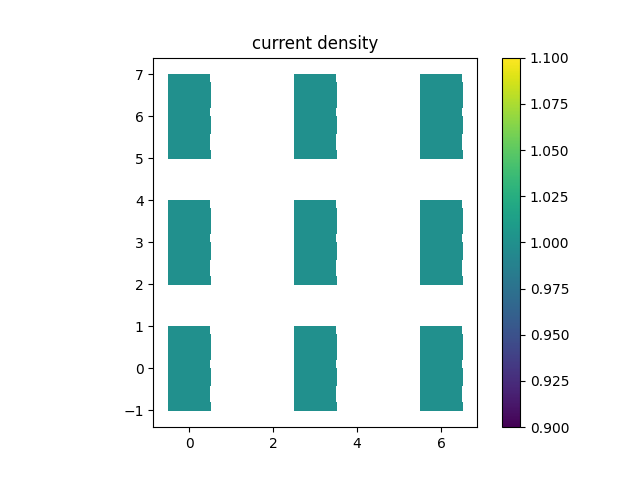
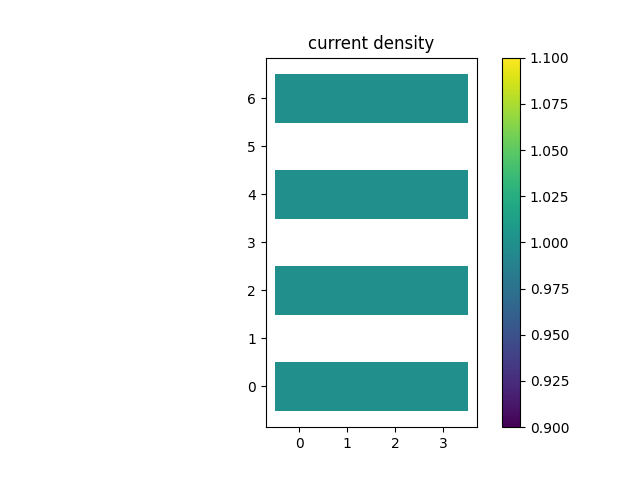
v1.1

diff --git a/plotter/_plotter.py b/plotter/_plotter.py
@@ -49,13 +49,44 @@ class GraphStruct(Graph):
         colors = self.ax.tripcolor(x, y, triangles, densities)
         self.fig.colorbar(colors)
         self._options(filepath, filename, shown)
-        
-    def plotPoly(self, points, filename = "poly.png", filepath = "./results/", xlabel = 'x', ylabel = 'y', shown = True):
-        x = [each[0] for each in points]
-        y = [each[1] for each in points]
-        self.ax.set_title("poly", loc='center')        
-        self.ax.plot(x, y)
+
+
+    
+    def plotPoly(self, structure, filename="poly.png", filepath="./results/", xlabel='x', ylabel='y', shown=True):
+        """繪製多個多邊形的外部邊框。"""
+        # 使用集合來保持唯一性，並標記每個邊界的邊次數
+        edge_count = {}
+        for triangle in structure.triangles:
+            edges = [
+                (min(triangle[0], triangle[1]), max(triangle[0], triangle[1])),
+                (min(triangle[1], triangle[2]), max(triangle[1], triangle[2])),
+                (min(triangle[0], triangle[2]), max(triangle[0], triangle[2]))
+            ]
+            for edge in edges:
+                if edge in edge_count:
+                    edge_count[edge] += 1
+                else:
+                    edge_count[edge] = 1
+
+        # 只繪製外部邊框的邊，即出現次數為 1 的邊
+        for edge, count in edge_count.items():
+            if count == 1:
+                x = [structure.points[edge[0]][0], structure.points[edge[1]][0]]
+                y = [structure.points[edge[0]][1], structure.points[edge[1]][1]]
+                self.ax.plot(x, y, 'b-')  # 'b-' 表示藍色實線
+
+        # print("只繪製多邊形的外部邊框")
+        self.ax.set_title("poly", loc='center')
         self._options(filepath, filename, shown)
+
+ 
+        
+    # def plotPoly(self, points, filename = "poly.png", filepath = "./results/", xlabel = 'x', ylabel = 'y', shown = True):
+    #     x = [each[0] for each in points]
+    #     y = [each[1] for each in points]
+    #     self.ax.set_title("poly", loc='center')        
+    #     self.ax.plot(x, y)
+    #     self._options(filepath, filename, shown)
 
     def plot2Dmesh(self, points, triangles, centers = None, filename =  "mesh.png", filepath = "./results/", keepout_ratio = 1.02, xlabel = 'x', ylabel = 'y', shown = True):
         ## -- Prepare data and plot
@@ -80,20 +111,44 @@ class GraphStruct(Graph):
             self.ax.text(each[0], each[1], str(k), fontsize = 8)
        
     
+
+
+
+
 def plotAll(structure, densities):
     name = structure.name
-    v = structure.vertices
     p = structure.points
     t = structure.triangles
     c = structure.center
 
     polygon = GraphStruct()
-    polygon.plotPoly(v, filename = name + "_" + "poly.png" )
-    
+    polygon.plotPoly(structure, filename=name + "_" + "poly.png")
+
     mesh = GraphStruct()
-    mesh.plot2Dmesh(p, t, c, filename = name + "_" + "mesh.png" )
+    mesh.plot2Dmesh(p, t, c, filename=name + "_" + "mesh.png")
 
     density = GraphStruct()
-    density.plotDensity(p, t, densities, filename = name + "_" + "densities.png" )
+    density.plotDensity(p, t, densities, filename=name + "_" + "densities.png")
+
+
+
+
+
+
+# def plotAll(structure, densities):
+#     name = structure.name
+#     v = structure.vertices
+#     p = structure.points
+#     t = structure.triangles
+#     c = structure.center
+
+#     polygon = GraphStruct()
+#     polygon.plotPoly(v, filename = name + "_" + "poly.png" )
+    
+#     mesh = GraphStruct()
+#     mesh.plot2Dmesh(p, t, c, filename = name + "_" + "mesh.png" )
+
+#     density = GraphStruct()
+#     density.plotDensity(p, t, densities, filename = name + "_" + "densities.png" )
     
     

diff --git a/mesh/_mesh.py b/mesh/_mesh.py
@@ -82,28 +82,53 @@ class Mesh(object):
             raise ValueError("僅支援對 'plate' 幾何形狀的網格進行複製。")
 
         num_x_copies = int(dlist[4])
-        x_spacing = int(dlist[5])
+        x_spacing = float(dlist[5])
         num_y_copies = int(dlist[6])
-        y_spacing = int(dlist[7])
+        y_spacing = float(dlist[7])
 
         replicated_triangles = []
-        replicated_points = []
+        replicated_points = list(self.points)  # 首先保留初始的點
+        num_original_points = len(self.points)
+
+        # 初始天線的點和三角形數量
+        # print(f"初始點數量: {num_original_points}")
+        # print(f"初始三角形數量: {len(self.triangles)}")
 
         for i in range(num_x_copies):
             for j in range(num_y_copies):
+                if i == 0 and j == 0:
+                    # 跳過初始的第一組
+                    continue
+
                 # 計算此次複製的偏移量
                 x_offset = i * x_spacing
                 y_offset = j * y_spacing
 
-                # 使用計算出的偏移量複製點和三角形
-                for v in self.triangles:
-                    replicated_triangles.append([v_i + len(replicated_points) for v_i in v])
-                    replicated_points.extend([(x + x_offset, y + y_offset) for x, y in self.points])
+                # 複製點並添加到點列表中
+                replicated_points.extend([(x + x_offset, y + y_offset) for x, y in self.points])
 
-        # 使用複製後的點和三角形更新 Mesh 物件的屬性
-        self.triangles = replicated_triangles
+                # 複製三角形，並更新其頂點索引
+                num_points = num_original_points * (i + j * num_x_copies)
+                for triangle in self.triangles:
+                    replicated_triangle = [v + num_points for v in triangle]
+                    replicated_triangles.append(replicated_triangle)
+
+                # 當前複製的位移和結果
+                # print(f"已在偏移 ({x_offset}, {y_offset}) 複製一組")
+                # print(f"複製後的點數量: {len(replicated_points)}")
+                # print(f"複製後的三角形數量: {len(replicated_triangles)}")
+
+        # 更新 Mesh 物件的屬性
+        self.triangles = replicated_triangles + self.triangles
         self.points = replicated_points
         self.triangles_total = len(self.triangles)
+
+        # 打印總結果
+        # print(f"總共複製組數: {num_x_copies * num_y_copies}")
+        # print(f"總點數量: {len(self.points)}")
+        # print(f"總三角形數量: {len(self.triangles)}")
+
+
 
 
 

diff --git a/demo_dipole.py b/demo_dipole.py
@@ -66,19 +66,21 @@ from plotter import *
 
 # 定義參數
 width = 1
-length = 2
-nx = 1
-ny = 10
+length = 1
+nx = 2
+ny = 2
 
 #定義複製項
-num_x_copies = 3
-x_spacing = 3
-num_y_copies = 3
-y_spacing =3
+num_x_copies = 4
+x_spacing = 1
+num_y_copies = 4
+y_spacing =2
 
 # # 使用 Mesh 類別生成網格
 structure = mesh.Mesh('dipole', 'plate', width, length, nx, ny,num_x_copies, x_spacing, num_y_copies, y_spacing)
 structure._replicate_plate([width, length, nx, ny, num_x_copies, x_spacing, num_y_copies, y_spacing])
+
+
 
 # 設置 `densities` 屬性。這裡以預設值 1.0 作為示例，可以根據具體需求調整
 structure.densities = [1.0] * structure.triangles_total

diff --git a/demo_plot.py b/demo_plot.py
@@ -25,10 +25,9 @@ else:
     with open("./results/" + mesh_to_plot + "_strct.pkl", 'rb') as file_strct:
         structure = pickle.load(file_strct)
         structure.center = None
-        # print("triangles:", structure.triangles)
-        plotAll(structure, structure.densities)
         
-
+        plotAll(structure, structure.densities)
+    
 
 
     # with open("./results/" + mesh_to_plot + "_pattern.pkl", 'rb') as file_pattern:
